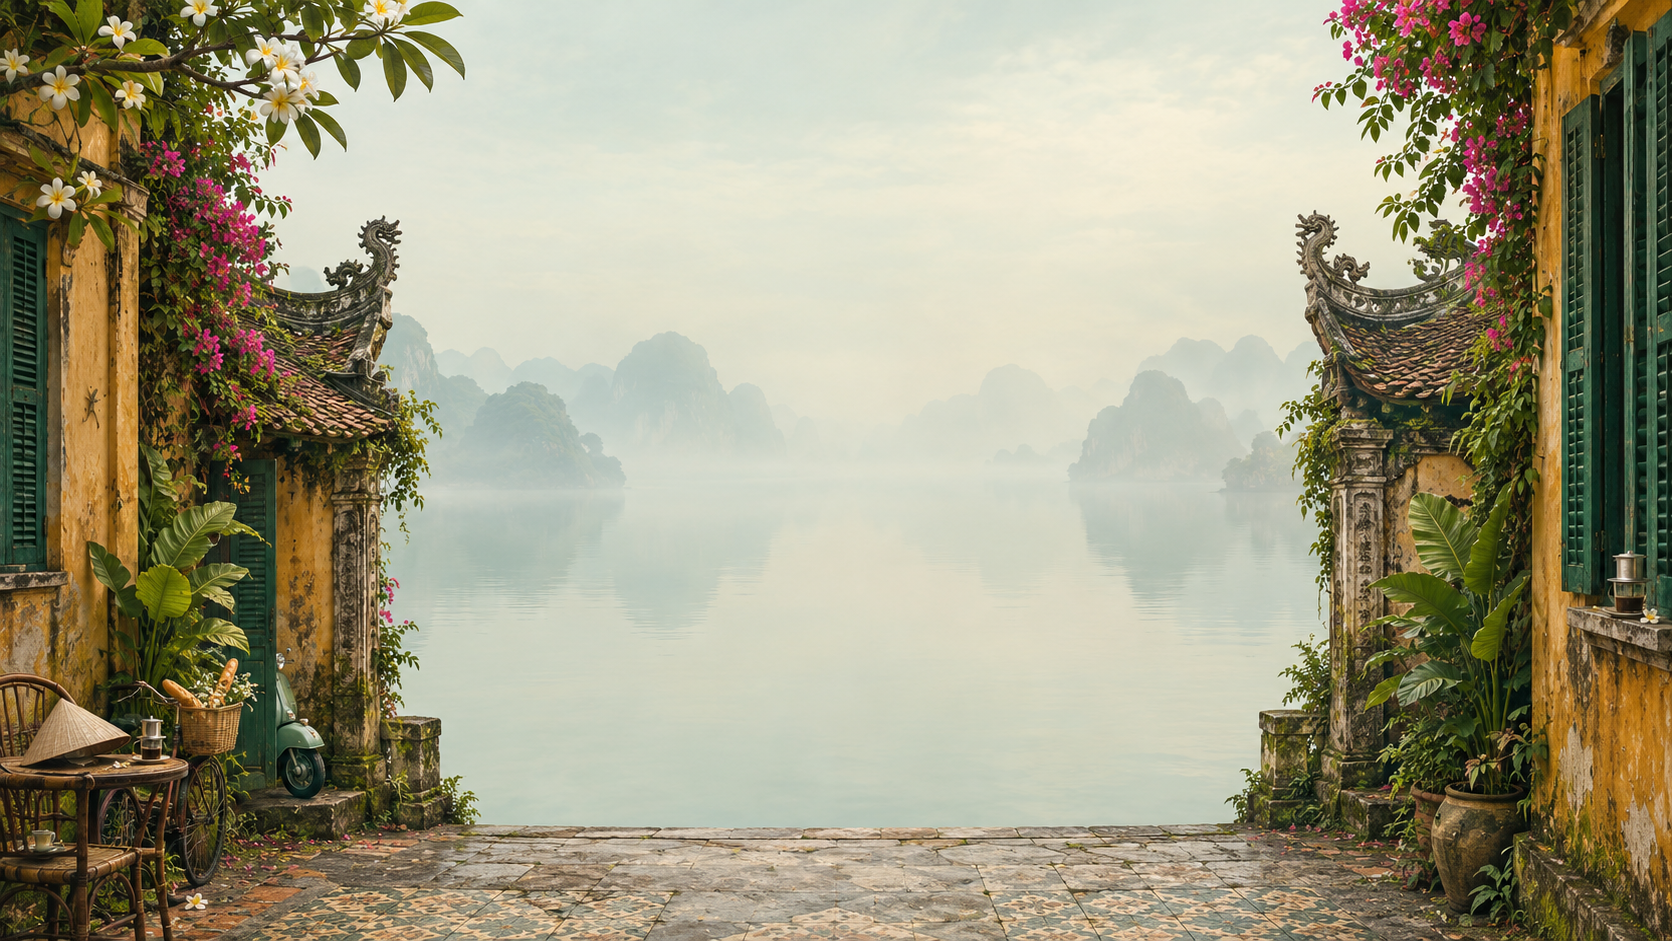
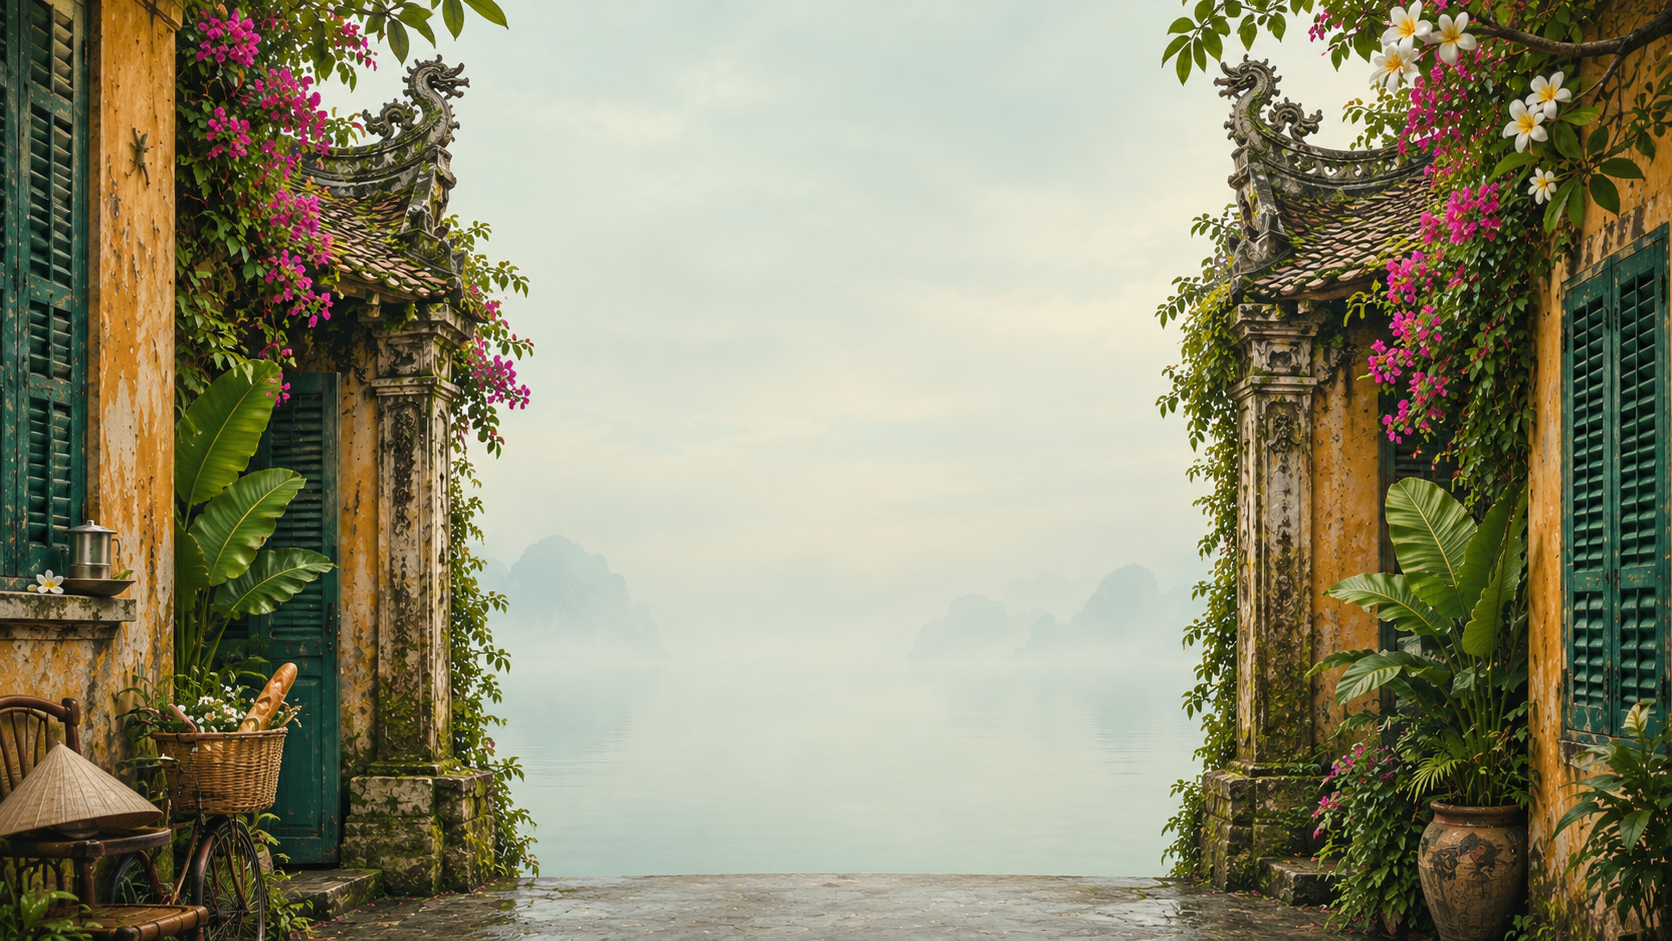
New background, smaller gate, title-case hidden names

diff --git a/dist/countries.js b/dist/countries.js
@@ -4,15 +4,15 @@
  */
 /** Names hidden in the cloth — read left→right ("h") or top→bottom ("v"). */
 const HIDDEN_NAMES = [
-  { text: "SAKSHI ROTAKE", row: 3, col: 4, dir: "h" },
-  { text: "RADHIKA GOPAL", row: 9, col: 14, dir: "h" },
-  { text: "BHARATI", row: 19, col: 18, dir: "h" },
-  { text: "KIRAN ROTAKE", row: 5, col: 38, dir: "v" },
-  { text: "SAURABH ROTAKE", row: 11, col: 2, dir: "v" }
+  { text: "Sakshi Rotake", row: 3, col: 4, dir: "h" },
+  { text: "Radhika Gopal", row: 9, col: 14, dir: "h" },
+  { text: "Bharati", row: 19, col: 18, dir: "h" },
+  { text: "Kiran Rotake", row: 5, col: 38, dir: "v" },
+  { text: "Saurabh Rotake", row: 11, col: 2, dir: "v" }
 ];
 
-/** Name letters draw a touch larger than lowercase text, smaller than full capitals. */
-const HIDDEN_NAME_SCALE = 0.85;
+/** Name letters draw a touch larger than the surrounding cloth text. */
+const HIDDEN_NAME_SCALE = 1.15;
 
 export const COUNTRIES = {
   vietnam: {

diff --git a/src/countries.js b/src/countries.js
@@ -4,15 +4,15 @@
  */
 /** Names hidden in the cloth — read left→right ("h") or top→bottom ("v"). */
 const HIDDEN_NAMES = [
-  { text: "SAKSHI ROTAKE", row: 3, col: 4, dir: "h" },
-  { text: "RADHIKA GOPAL", row: 9, col: 14, dir: "h" },
-  { text: "BHARATI", row: 19, col: 18, dir: "h" },
-  { text: "KIRAN ROTAKE", row: 5, col: 38, dir: "v" },
-  { text: "SAURABH ROTAKE", row: 11, col: 2, dir: "v" }
+  { text: "Sakshi Rotake", row: 3, col: 4, dir: "h" },
+  { text: "Radhika Gopal", row: 9, col: 14, dir: "h" },
+  { text: "Bharati", row: 19, col: 18, dir: "h" },
+  { text: "Kiran Rotake", row: 5, col: 38, dir: "v" },
+  { text: "Saurabh Rotake", row: 11, col: 2, dir: "v" }
 ];
 
-/** Name letters draw a touch larger than lowercase text, smaller than full capitals. */
-const HIDDEN_NAME_SCALE = 0.85;
+/** Name letters draw a touch larger than the surrounding cloth text. */
+const HIDDEN_NAME_SCALE = 1.15;
 
 export const COUNTRIES = {
   vietnam: {

diff --git a/dist/style.css b/dist/style.css
@@ -3,6 +3,8 @@
 :root {
   --area-w: 492px;
   --area-h: 468px;
+  /* Wallpaper — shrink gate to sit inside the background's opening */
+  --gate-scale: 0.8;
   /* Default China roof from Figma 605:6500 crop → full PNG placement */
   --roof-x: -180px;
   --roof-y: -508px;
@@ -296,7 +298,8 @@ body {
   top: calc(357 / 900 * 100%);
   width: var(--area-w);
   height: var(--area-h);
-  transform: translateX(-50%);
+  transform: translateX(-50%) scale(var(--gate-scale));
+  transform-origin: 50% 0;
   z-index: 1;
   overflow: visible;
 }
@@ -319,7 +322,7 @@ body {
 .area[data-country="vietnam"],
 .area[data-country="vietnam-france"] {
   --roof-x: -92px;
-  --roof-y: -399px;
+  --roof-y: -407px;
   --roof-w: 676px;
   --roof-h: 676px;
 }

diff --git a/src/style.css b/src/style.css
@@ -3,6 +3,8 @@
 :root {
   --area-w: 492px;
   --area-h: 468px;
+  /* Wallpaper — shrink gate to sit inside the background's opening */
+  --gate-scale: 0.8;
   /* Default China roof from Figma 605:6500 crop → full PNG placement */
   --roof-x: -180px;
   --roof-y: -508px;
@@ -296,7 +298,8 @@ body {
   top: calc(357 / 900 * 100%);
   width: var(--area-w);
   height: var(--area-h);
-  transform: translateX(-50%);
+  transform: translateX(-50%) scale(var(--gate-scale));
+  transform-origin: 50% 0;
   z-index: 1;
   overflow: visible;
 }
@@ -319,7 +322,7 @@ body {
 .area[data-country="vietnam"],
 .area[data-country="vietnam-france"] {
   --roof-x: -92px;
-  --roof-y: -399px;
+  --roof-y: -407px;
   --roof-w: 676px;
   --roof-h: 676px;
 }
